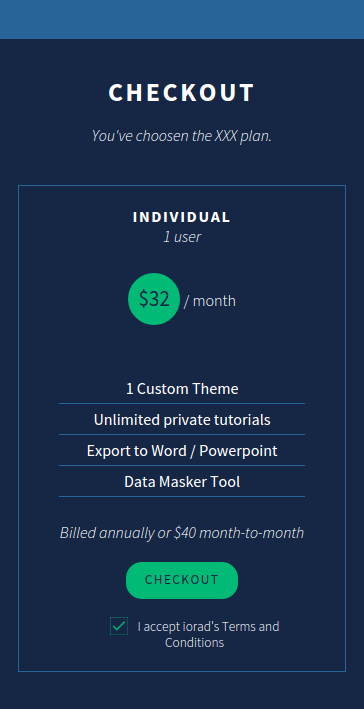
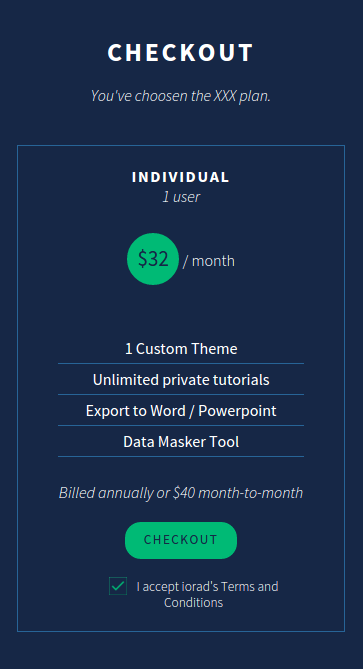
Small fixes on iorad

diff --git a/_site/assets/styles/screen.css b/_site/assets/styles/screen.css
@@ -21,10 +21,12 @@ article, aside, details, figcaption, figure, footer, header, hgroup, main, menu,
 /* No files to import found in structures/**\/* */
 html body section h3 { display: none; }
 html body section article { display: -webkit-box; /* OLD - iOS 6-, Safari 3.1-6 */ display: -moz-box; /* OLD - Firefox 19- (buggy but mostly works) */ display: -ms-flexbox; /* TWEENER - IE 10 */ display: -webkit-flex; /* NEW - Chrome */ display: flex; /* NEW, Spec - Opera 12.1, Firefox 20+ */ -webkit-flex-wrap: wrap; -ms-flex-wrap: wrap; flex-wrap: wrap; -webkit-box-pack: center; -ms-flex-pack: center; -webkit-justify-content: center; -moz-justify-content: center; justify-content: center; -webkit-box-align: center; -ms-flex-align: center; -webkit-align-items: center; -moz-align-items: center; align-items: center; }
-html body section article figure { padding: 10vh 2.5vw; }
+html body section article figure { display: -webkit-box; /* OLD - iOS 6-, Safari 3.1-6 */ display: -moz-box; /* OLD - Firefox 19- (buggy but mostly works) */ display: -ms-flexbox; /* TWEENER - IE 10 */ display: -webkit-flex; /* NEW - Chrome */ display: flex; /* NEW, Spec - Opera 12.1, Firefox 20+ */ padding: 10vh 2.5vw; }
 html body section article figure img { max-width: 100%; height: auto; }
+html body section article figure figcaption { margin: 10vh 2.5vw; padding: 10vh 2.5vw; }
 
-html body #iorad article { background: #3B485F; }
-html body #iorad article figure.tablet img { padding: 2.5vw; background: #5a6e92; -moz-border-radius: 0.75vw; -webkit-border-radius: 0.75vw; border-radius: 0.75vw; }
-html body #iorad article figure.mobile img { padding: 7.5vh 1.25vw; background: #5a6e92; -moz-border-radius: 1.25vw; -webkit-border-radius: 1.25vw; border-radius: 1.25vw; }
+html body #iorad article figure.tablet img { padding: 3.75vw; background: #5a6e92; -moz-border-radius: 1.25vw; -webkit-border-radius: 1.25vw; border-radius: 1.25vw; }
+html body #iorad article figure.mobile img { padding: 7.5vh 1.25vw; background: #5a6e92; -moz-border-radius: 2.5vw; -webkit-border-radius: 2.5vw; border-radius: 2.5vw; }
 html body #iorad article figure.desktop img { border-top: 3.75vh solid #5a6e92; -moz-border-radius: 0.75vw 0.75vw 0 0; -webkit-border-radius: 0.75vw; border-radius: 0.75vw 0.75vw 0 0; }
+html body #iorad article figure figcaption { font-size: 150%; }
+html body #iorad article figure figcaption p { margin-top: 1.25em; }

diff --git a/assets/styles/screen.css b/assets/styles/screen.css
@@ -21,10 +21,12 @@ article, aside, details, figcaption, figure, footer, header, hgroup, main, menu,
 /* No files to import found in structures/**\/* */
 html body section h3 { display: none; }
 html body section article { display: -webkit-box; /* OLD - iOS 6-, Safari 3.1-6 */ display: -moz-box; /* OLD - Firefox 19- (buggy but mostly works) */ display: -ms-flexbox; /* TWEENER - IE 10 */ display: -webkit-flex; /* NEW - Chrome */ display: flex; /* NEW, Spec - Opera 12.1, Firefox 20+ */ -webkit-flex-wrap: wrap; -ms-flex-wrap: wrap; flex-wrap: wrap; -webkit-box-pack: center; -ms-flex-pack: center; -webkit-justify-content: center; -moz-justify-content: center; justify-content: center; -webkit-box-align: center; -ms-flex-align: center; -webkit-align-items: center; -moz-align-items: center; align-items: center; }
-html body section article figure { padding: 10vh 2.5vw; }
+html body section article figure { display: -webkit-box; /* OLD - iOS 6-, Safari 3.1-6 */ display: -moz-box; /* OLD - Firefox 19- (buggy but mostly works) */ display: -ms-flexbox; /* TWEENER - IE 10 */ display: -webkit-flex; /* NEW - Chrome */ display: flex; /* NEW, Spec - Opera 12.1, Firefox 20+ */ padding: 10vh 2.5vw; }
 html body section article figure img { max-width: 100%; height: auto; }
+html body section article figure figcaption { margin: 10vh 2.5vw; padding: 10vh 2.5vw; }
 
-html body #iorad article { background: #3B485F; }
-html body #iorad article figure.tablet img { padding: 2.5vw; background: #5a6e92; -moz-border-radius: 0.75vw; -webkit-border-radius: 0.75vw; border-radius: 0.75vw; }
-html body #iorad article figure.mobile img { padding: 7.5vh 1.25vw; background: #5a6e92; -moz-border-radius: 1.25vw; -webkit-border-radius: 1.25vw; border-radius: 1.25vw; }
+html body #iorad article figure.tablet img { padding: 3.75vw; background: #5a6e92; -moz-border-radius: 1.25vw; -webkit-border-radius: 1.25vw; border-radius: 1.25vw; }
+html body #iorad article figure.mobile img { padding: 7.5vh 1.25vw; background: #5a6e92; -moz-border-radius: 2.5vw; -webkit-border-radius: 2.5vw; border-radius: 2.5vw; }
 html body #iorad article figure.desktop img { border-top: 3.75vh solid #5a6e92; -moz-border-radius: 0.75vw 0.75vw 0 0; -webkit-border-radius: 0.75vw; border-radius: 0.75vw 0.75vw 0 0; }
+html body #iorad article figure figcaption { font-size: 150%; }
+html body #iorad article figure figcaption p { margin-top: 1.25em; }

diff --git a/assets/styles/pages/_iorad.scss b/assets/styles/pages/_iorad.scss
@@ -2,7 +2,7 @@ html {
   body {
     #iorad {
       article {
-        background: #3B485F;
+        //background: #3B485F;
         $color: #5A6E92;
 
         figure {
@@ -18,9 +18,17 @@ html {
             @include mockups('desktop', $color);
           }
 
+          figcaption {
+            //color: #5A6E92;
+            font-size: 150%;
+
+            p {
+              margin-top: 1.25em;
+            }
+          }
+
         }
       }
     }
-
   }
 }

diff --git a/assets/styles/atoms/_mockups.scss b/assets/styles/atoms/_mockups.scss
@@ -1,9 +1,9 @@
 @mixin mockups($device, $color) {
   @if ($device == 'tablet') {
     img {
-      padding: 2.5vw;
+      padding: 3.75vw;
       background: $color;
-      @include border-radius(.75vw);
+      @include border-radius(1.25vw);
     }
   }
 
@@ -11,7 +11,7 @@
     img {
       padding: 7.5vh 1.25vw;
       background: $color;
-      @include border-radius(1.25vw);
+      @include border-radius(2.5vw);
     }
   }
 

diff --git a/assets/styles/pages/_default.scss b/assets/styles/pages/_default.scss
@@ -9,11 +9,17 @@ html {
         @include flexbox($wrap: wrap, $justify-content: center, $align-items: center);
 
         figure {
+          @include flexbox;
           padding: 10vh 2.5vw;
 
           img {
             max-width: 100%;
             height: auto;
+          }
+
+          figcaption {
+            margin: 10vh 2.5vw;
+            padding: 10vh 2.5vw;
           }
         }
       }

diff --git a/_posts/2014-11-18-iorad.html b/_posts/2014-11-18-iorad.html
@@ -18,6 +18,14 @@ title: Home
     </figure>
 
     <figure class="mobile">
+      <figcaption>
+        <h1>iorad</h1>
+
+        <p>
+          Pricing and Checkout page redesign
+        </p>
+      </figcaption>
+      
       <img src="{{ site.url }}/assets/images/iorad-checkout-mobile.png">
     </figure>
 

diff --git a/_site/iorad/index.html b/_site/iorad/index.html
@@ -70,6 +70,14 @@
     </figure>
 
     <figure class="mobile">
+      <figcaption>
+        <h1>iorad</h1>
+
+        <p>
+          Pricing and Checkout page redesign
+        </p>
+      </figcaption>
+      
       <img src="/assets/images/iorad-checkout-mobile.png">
     </figure>
 
